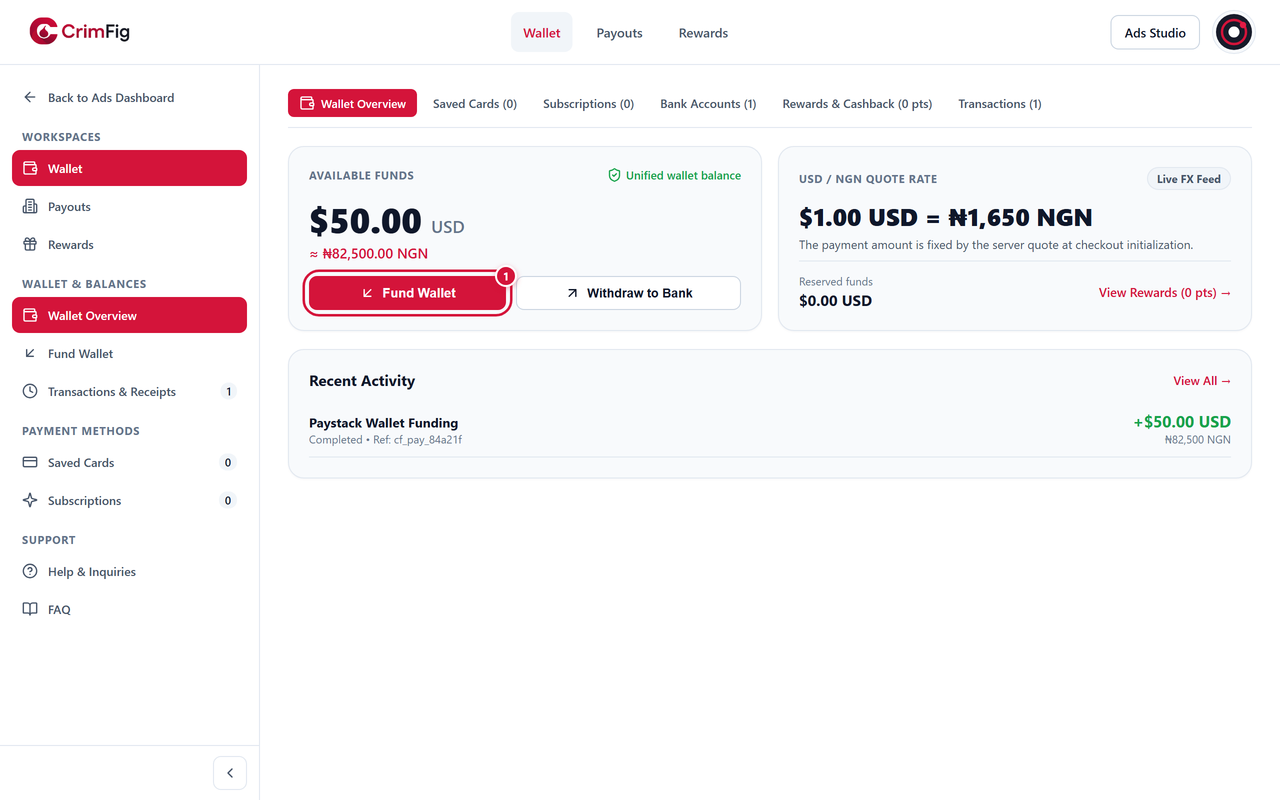
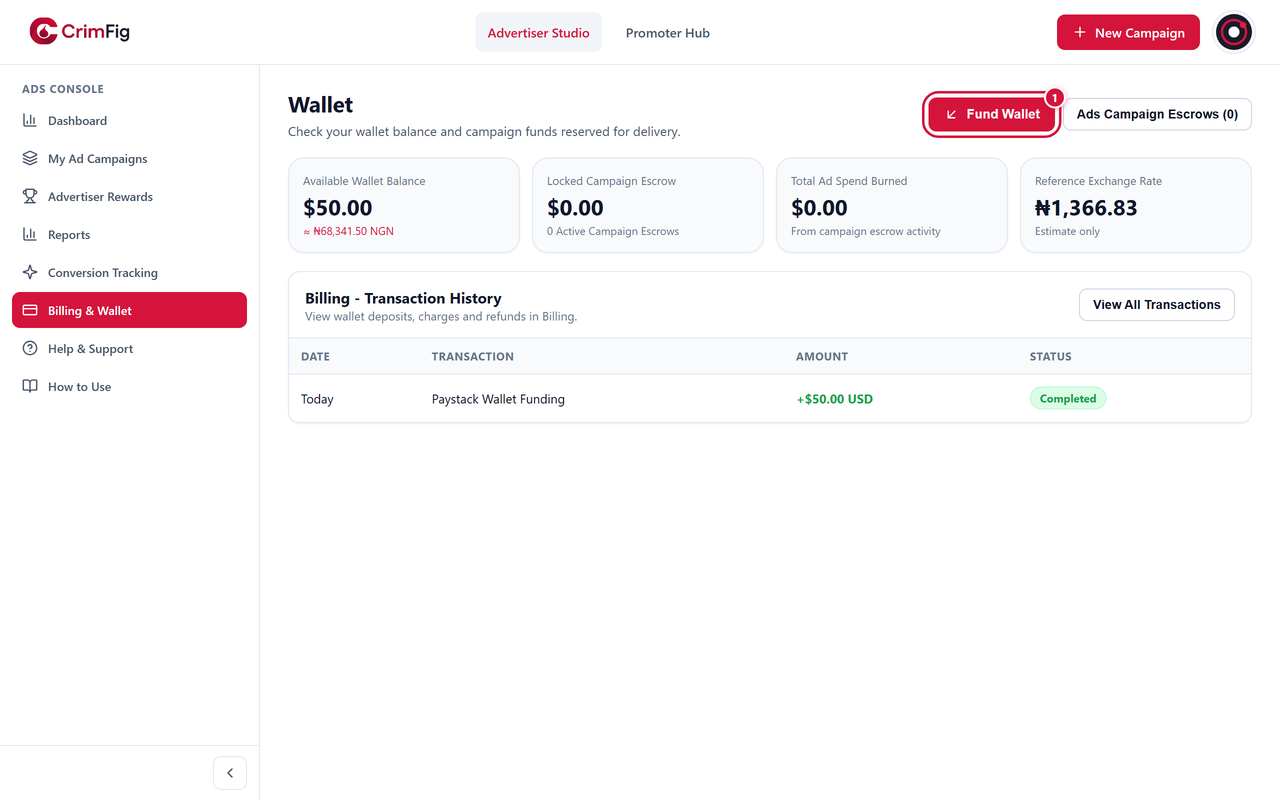
fix(ads): match /how-to-use Step 1 to Ads /billing page

diff --git a/web/ads/src/app/how-to-use/HowToUseGuide.tsx b/web/ads/src/app/how-to-use/HowToUseGuide.tsx
@@ -36,17 +36,17 @@ export const ADVERTISER_GUIDE_STEPS: readonly GuideStep[] = [
     stepNumber: 1,
     title: 'Fund Your Advertising Wallet',
     summary:
-      'Open Billing & Wallet, click Fund Wallet, and deposit at least $5.00 USD via Paystack.',
+      'Open Billing & Wallet inside Ads, click Fund Wallet, and deposit at least $5.00 USD via Paystack.',
     checklist: [
-      'Open Billing & Wallet from the sidebar.',
+      'Open Billing & Wallet from the Ads Console sidebar.',
       'Click Fund Wallet and complete Paystack checkout.',
-      'Confirm Available Funds in Wallet Overview.',
+      'Confirm Available Wallet Balance.',
     ],
     screenshotSrc: '/guides/advertiser/01-wallet-funding.png',
     clipSrc: '/guides/advertiser/01-wallet-funding.webp',
     imageAlt:
-      'CrimFig Billing Wallet Overview showing Available Funds, Fund Wallet button, USD/NGN quote rate, and Recent Activity',
-    caption: 'Step 1 — Fund Wallet in Billing.',
+      'CrimFig Ads Billing & Wallet screen showing Available Wallet Balance, Fund Wallet button, and Billing Transaction History',
+    caption: 'Step 1 — Click Fund Wallet in Billing & Wallet.',
     actionLabel: 'Open Billing & Wallet',
     actionHref: '/billing',
   },
